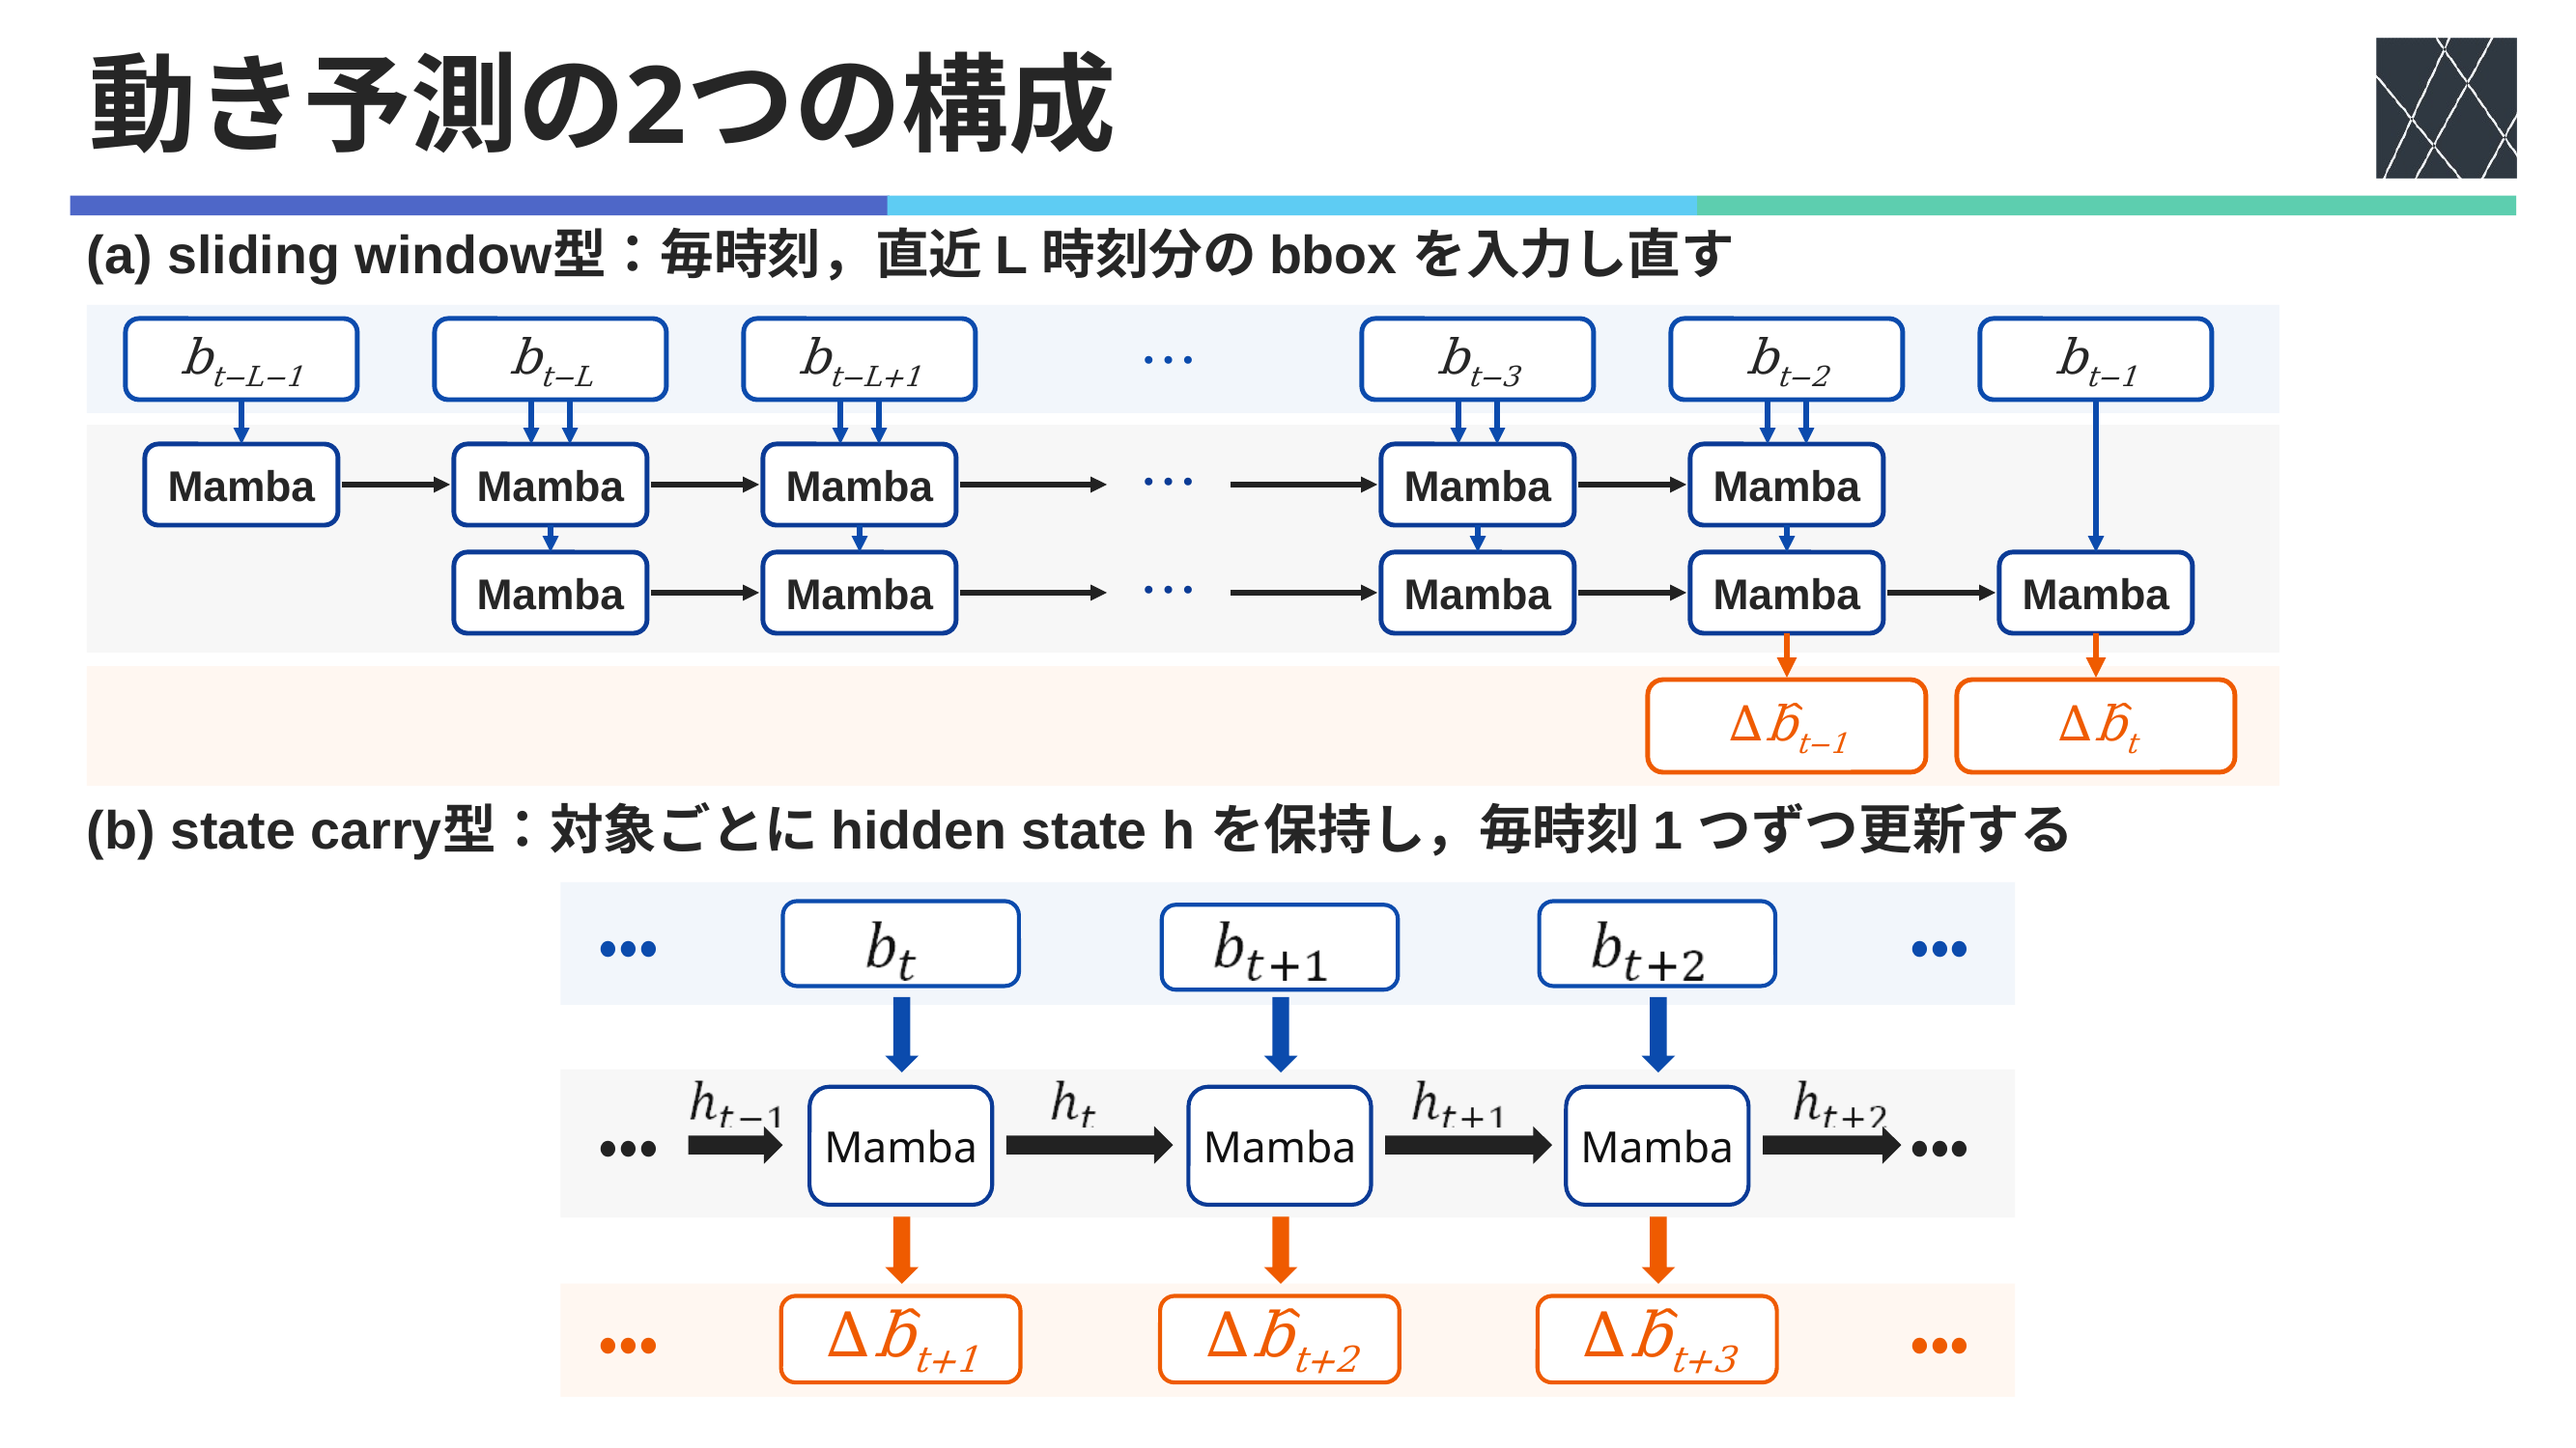
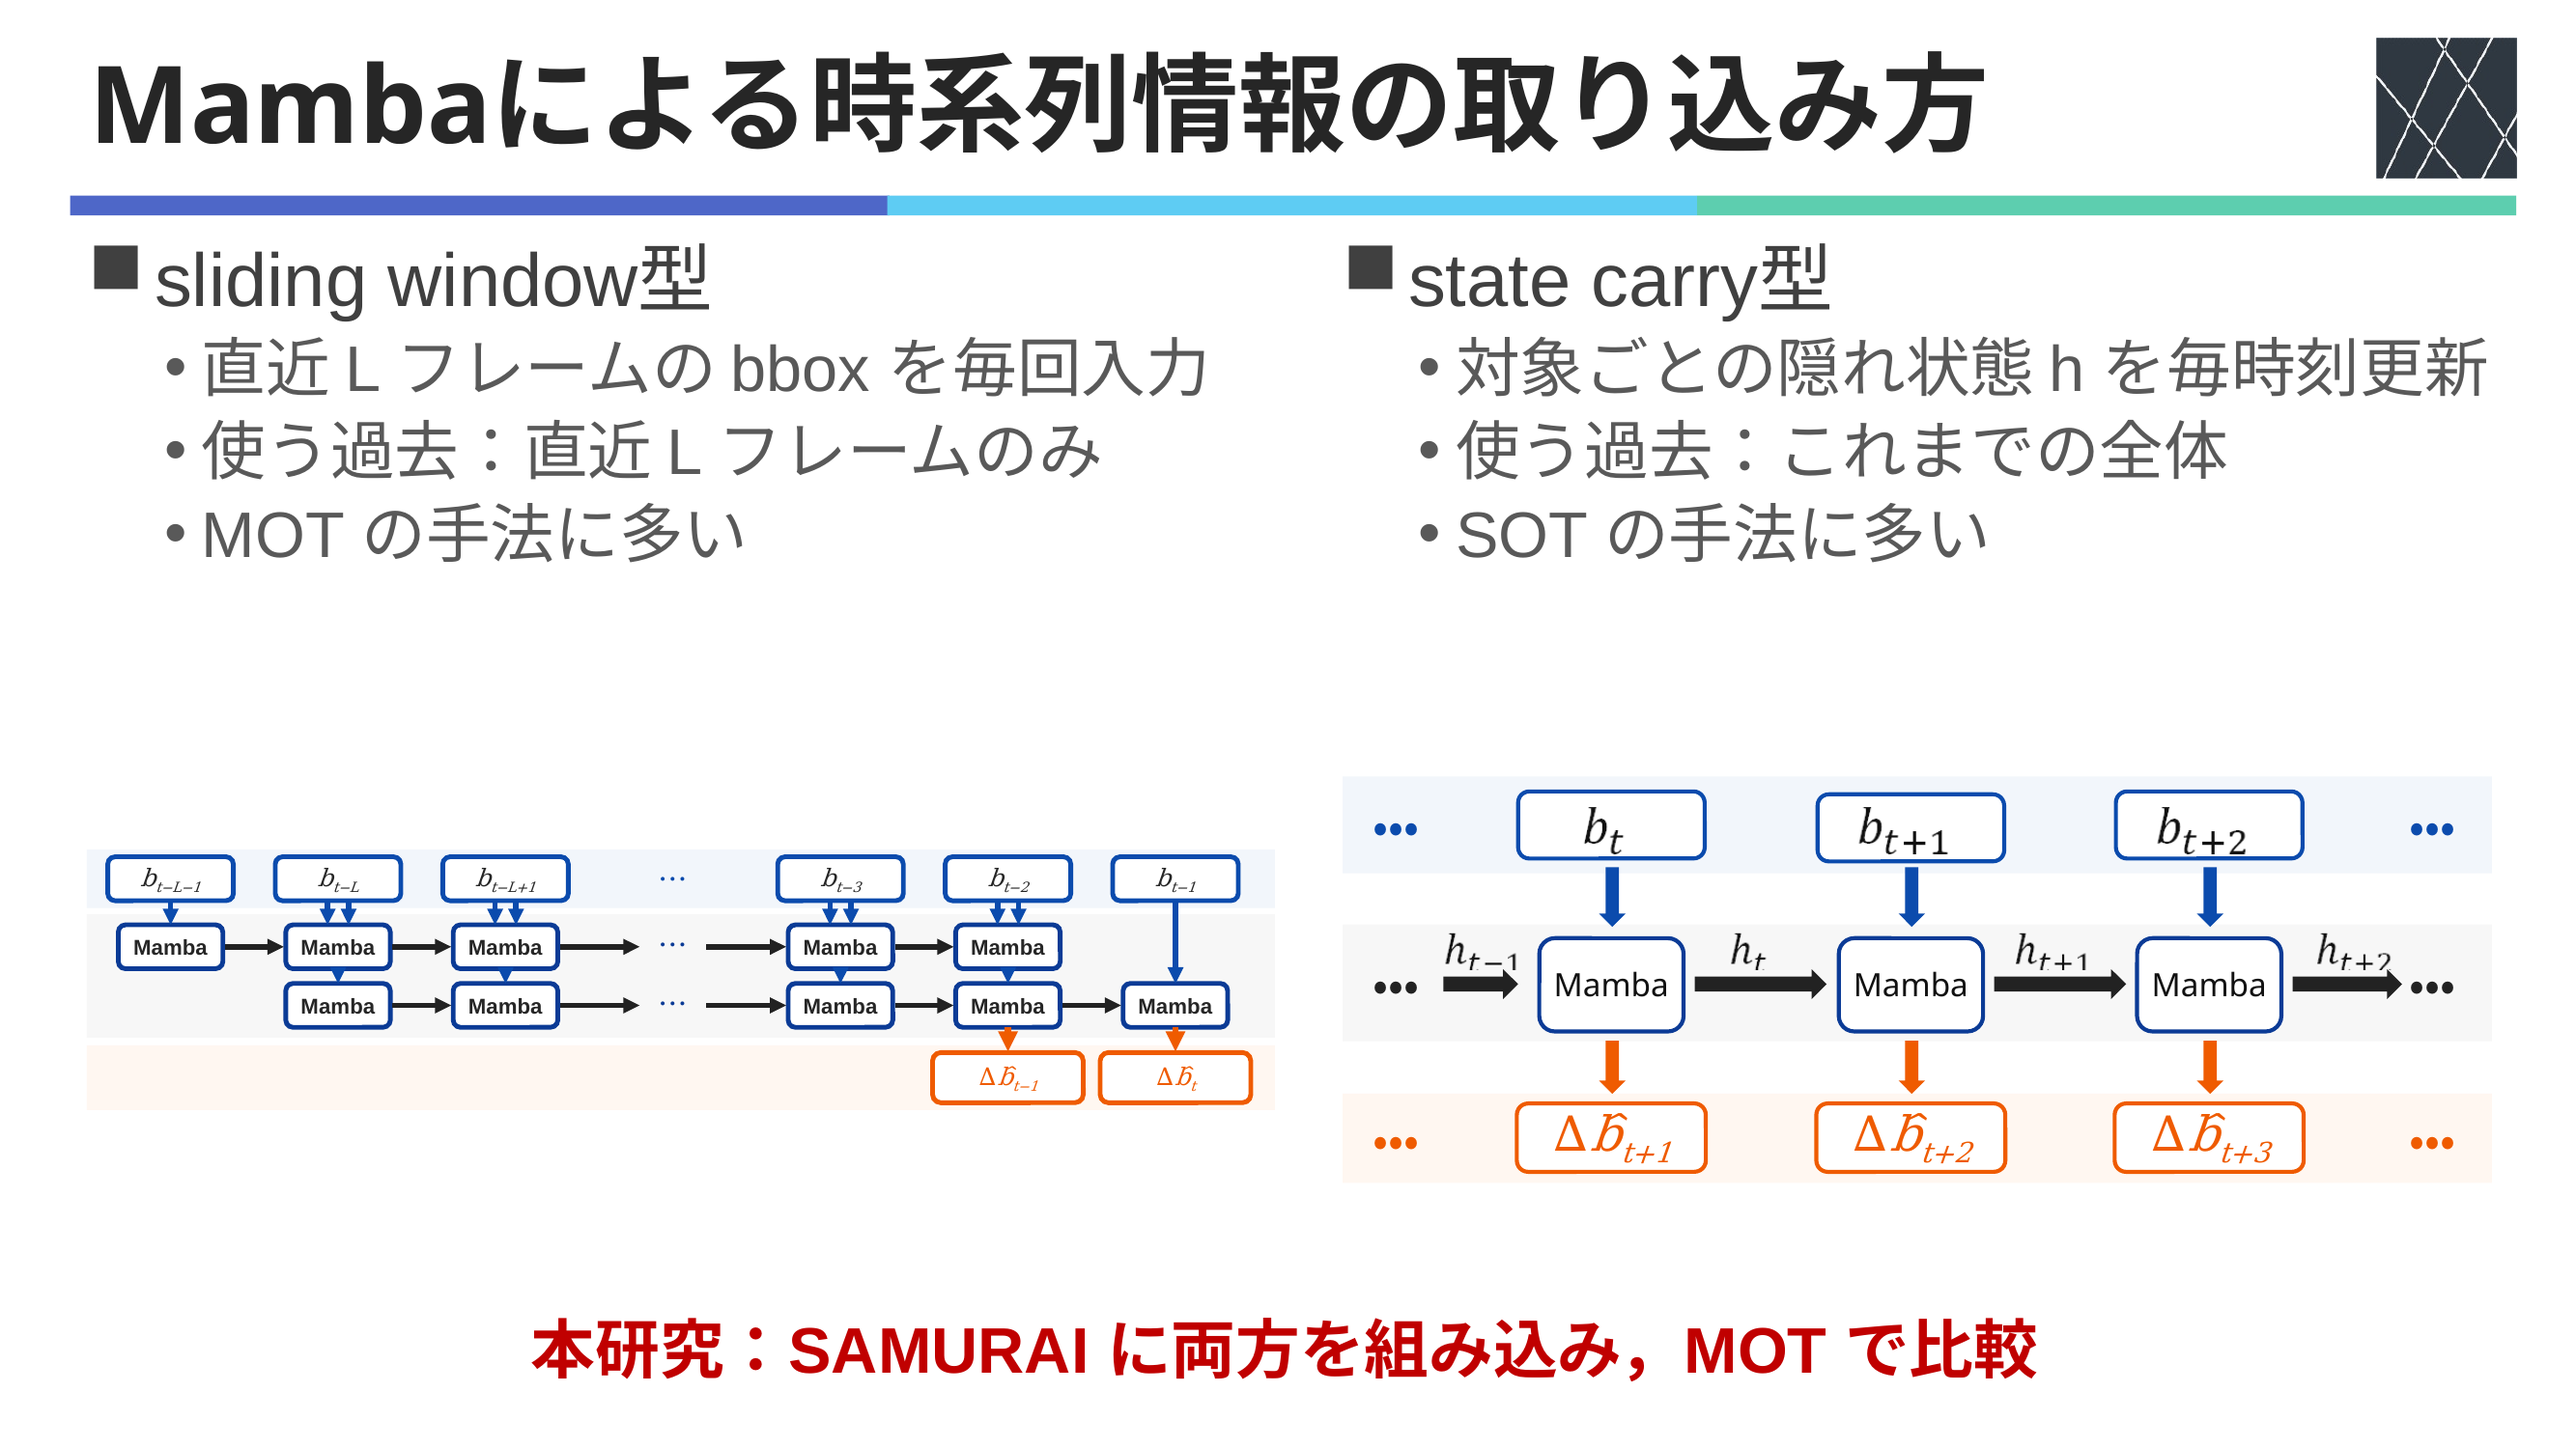
資料: Mambaによる時系列情報の取り込み方を整理

diff --git a/.research/lab/projects/sam2-mamba-motion-tracking/materials/figures/2026-10-13-midterm-diagrams/export_png.py b/.research/lab/projects/sam2-mamba-motion-tracking/materials/figures/2026-10-13-midterm-diagrams/export_png.py
@@ -23,7 +23,7 @@ NAMES = {  # slide title -> file name
     "既存手法の整理：動き予測": "03-method-table",
     "研究の目的": "04-research-goal",
     "提案手法": "08-proposed-method",
-    "動き予測の2つの構成": "06-sliding-window-vs-state-carry",
+    "Mambaによる時系列情報の取り込み方": "06-sliding-window-vs-state-carry",
     "Mambaを用いた動き予測": "07-motion-prediction",
     "（旧）bboxベースとマスクベースの追跡の合流": "05-old-bbox-mask-merge",
     "（旧）提案手法：IDごとのマスクを重ねた図": "09-proposed-method-stacked",

diff --git a/.research/lab/projects/sam2-mamba-motion-tracking/materials/2026-10-12-midterm-slide-restructure.md b/.research/lab/projects/sam2-mamba-motion-tracking/materials/2026-10-12-midterm-slide-restructure.md
@@ -127,6 +127,13 @@ tags: [presentation, midterm, restructure]
 - 8枚目（同日の追加修正）: ユーザーの希望で、IDごとのマスクを重ねる形から**上下に並べる形**に変えた。ID 1〜4 の行ごとに「マスク → Mambaによる動き予測」を並べ、Mamba の出力を1本にまとめて motion score へ。図の上の赤字の注記は外し、列の見出し（IDごとのマスク / IDごとに並列）にした。
 - 重ねた形の図も、あとで戻せるように残した。本体では非表示スライド「（旧）提案手法：IDごとのマスクを重ねた図」（最後尾）、図だけのpptxでは同じ題のスライド（`png/09-proposed-method-stacked.png`）。
 
+## 2026-10-15 「動き予測の2つの構成」→「動き予測へのMambaの組み込み方」（10/14 MTGの指摘 #6）
+
+- タイトルを「動き予測へのMambaの組み込み方」に変え、「2 つのコンテンツ」のレイアウトで左右に並べた。左：sliding window型（直近 L フレームの bbox を毎回入力 / 使う過去：直近 L フレームのみ / MOT の手法に多い）。右：state carry型（対象ごとの隠れ状態 h を毎時刻更新 / 使う過去：これまでの全体 / SOT の手法に多い）。
+- 2つの図を左右に並べ、縮めた分だけ図の中の文字も縮めた（sliding window型 0.54倍、state carry型 0.79倍）。下に「本研究：SAMURAI に両方を組み込み，MOT で比較」。
+- 「〜に多い」の根拠：[specs/2026-07-07-state-carry-research-direction.md](../specs/2026-07-07-state-carry-research-direction.md) の整理（sliding window型：MambaTrack・TrackSSM・MambaMOT・SportMamba、state carry型：MCITrack・SMTrack）。SOTでも引き継がない例（Mamba-FETrack）があるので「〜のみ」とはしない。
+- 並び：研究の目的 → 動き予測モデル：Mamba → Mambaを用いた動き予測 → 動き予測へのMambaの組み込み方 → 提案手法（ユーザーの指定。MTGの「目的の直後」とは違うが、MTGでも順番は議論の余地ありとされた）。
+
 ## 2026-10-15 4枚目のSAMURAIの図を単一物体（SOT）に
 
 - SAMURAI は単一物体追跡なのに、図では4人全員に bbox prompt とマスクがあり MOT をしているように見えていた（5枚目の表とも食い違う）。入力の bbox prompt とマスクを左端の1人だけにし、マスクの上に「追跡する対象は1人（SOT）」と入れた。画像は同じ場面のまま（[作り方](figures/2026-10-15-samurai-per-id/manifest.md)）。
@@ -135,6 +142,7 @@ tags: [presentation, midterm, restructure]
 ## 2026-10-16 先生のFB（F1〜F3）への対応
 
 - F1（従来のMOT手法）: ID付き・検出結果の画像の枠を太くし（元画像で 12 px → 40 px）、IDの番号を外した。[作り方](figures/2026-10-15-mot-paradigm-timeline/manifest.md)
+- F2: 「動き予測へのMambaの組み込み方」のタイトルを、ユーザーの決定どおり「Mambaによる時系列情報の取り込み方」にした。
 ## 自作図のバックアップ
 
 自作の図（3・4・6・7枚目）は、[抜き出し版のpptx](figures/2026-10-13-midterm-diagrams/manifest.md)にも保存した。

diff --git a/.research/lab/projects/sam2-mamba-motion-tracking/materials/figures/2026-10-13-midterm-diagrams/manifest.md b/.research/lab/projects/sam2-mamba-motion-tracking/materials/figures/2026-10-13-midterm-diagrams/manifest.md
@@ -32,7 +32,7 @@ SOFFICE=/path/to/soffice python export_png.py   # 既定: このフォルダのp
 | `png/03-method-table.png` | 比較表 |
 | `png/04-research-goal.png` | 目的の比較図 |
 | `png/05-old-bbox-mask-merge.png` | （旧）合流図 |
-| `png/06-sliding-window-vs-state-carry.png` | sliding window型とstate carry型 |
+| `png/06-sliding-window-vs-state-carry.png` | Mambaによる時系列情報の取り込み方（sliding window型とstate carry型を左右に並べた図） |
 | `png/07-motion-prediction.png` | Mambaを用いた動き予測（正常な場合の模式図） |
 | `png/08-proposed-method.png` | 提案手法（ID 1〜4 を上下に並べた図。本体で使う） |
 | `png/09-proposed-method-stacked.png` | （旧）提案手法：IDごとのマスクを重ねた図（差し替え用に残す） |

diff --git a/.research/lab/projects/sam2-mamba-motion-tracking/materials/2026-10-14-midterm-slide-revision-plan.md b/.research/lab/projects/sam2-mamba-motion-tracking/materials/2026-10-14-midterm-slide-revision-plan.md
@@ -60,3 +60,4 @@ tags: [presentation, midterm, revision]
 | # | スライド | FB | 対応 |
 |---|---|---|---|
 | F1 | 従来のMOT手法 | TBD・TBAとも、一番右の色付きbboxが見にくい。IDはなくてよいので太いbboxにする | 2026-10-15 対応（枠を太くし、IDの番号を外した。白枠の検出結果も同じ太さ） |
+| F2 | Mambaの適用方法 | タイトルが微妙。「Mambaを用いた時系列情報の取り込み方」のような、よりよいものを考える | 2026-10-16 ユーザーが「Mambaによる時系列情報の取り込み方」に決定。本体pptxにも反映 |
